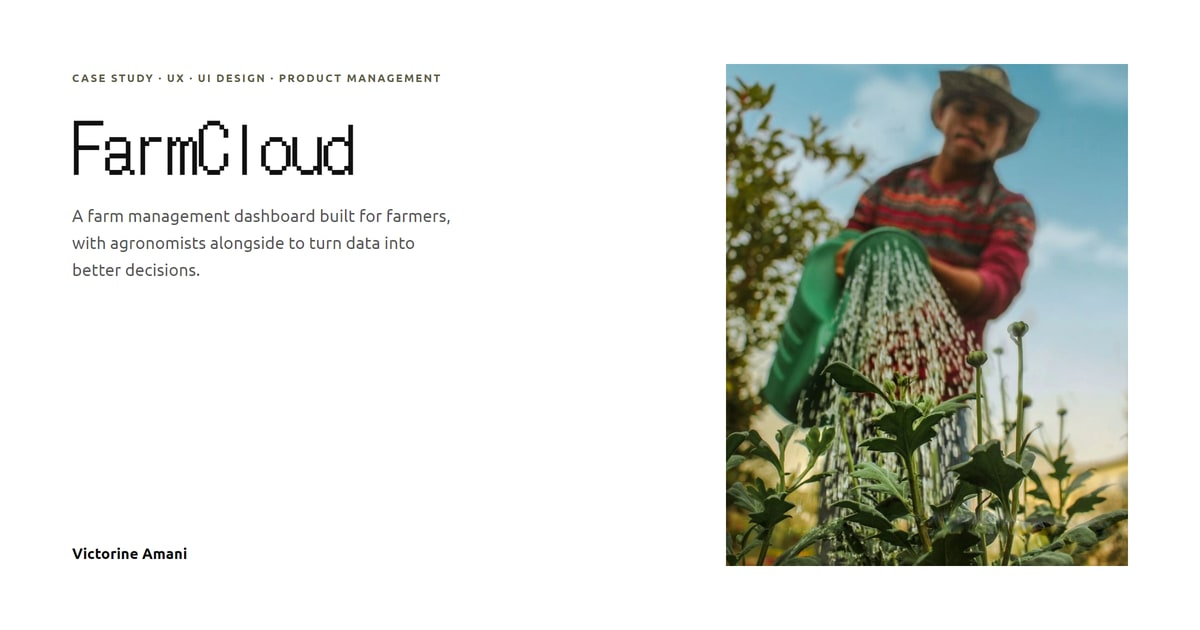
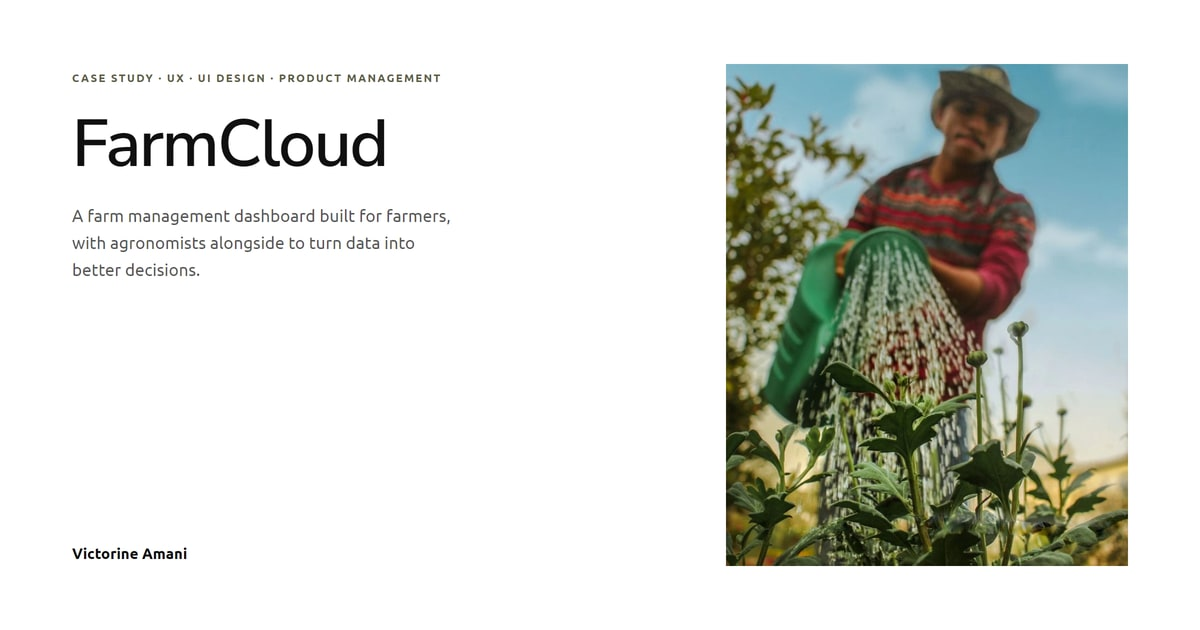
Set the headings in Nunito Sans
The pixel face read as a costume at seventy-two pixels. The headings are
the one place on a page that has to be read at a glance rather than looked
at, so they move to a face that can simply be read. Text stays Ubuntu.

Nunito Sans has real weights, so the three heading steps take the 600 that
names things everywhere else rather than a face's only option — and the
letter swap drops back to 400 with the face it swaps in, which ships one
weight and would otherwise be smeared with a fake bold. The measuring pass
drops the weight too, or a letter would be pinned narrower than the line
it sits in and the heading would reflow under the pointer.

Only 600 is fetched. The seven share cards are redrawn in the new face.

Changed region(s): [[0.0617, 0.181, 0.3392, 0.3016]]

diff --git a/src/styles.css b/src/styles.css
@@ -46,8 +46,9 @@
      media on the homepage. #e6e6cc. */
   --ground: oklch(0.918 0.034 107.1);
 
-  /* Headings only. DotGothic16 ships one weight, so the heading steps set 400. */
-  --font-display: "DotGothic16", var(--font-sans);
+  /* Headings only. Nunito Sans has real weights, so the heading steps set the
+     600 that names things everywhere else rather than a face's only option. */
+  --font-display: "Nunito Sans", var(--font-sans);
 
   /* Hairline used by the work-history file tabs and their panels. */
   --file-line: color-mix(in oklab, var(--ink) 24%, transparent);
@@ -76,8 +77,12 @@
 }
 
 /*
- * Text is set in Ubuntu, headings in DotGothic16 — both from Google Fonts, so
+ * Text is set in Ubuntu, headings in Nunito Sans — both from Google Fonts, so
  * nothing here needs a licence.
+ *
+ * DotGothic16 set the headings before this. It is a pixel face, and a heading
+ * is the one place on a page that has to be read at a glance rather than
+ * looked at, so the headings moved to a face that is simply legible.
  *
  * Aeonik was the earlier intent for text and was never bought; it is out of the
  * stack entirely now. Putting it back means adding it ahead of Ubuntu here and
@@ -89,7 +94,7 @@
  * thirteen sizes and six near-identical label styles before this.
  *
  * The three heading steps also carry the family and weight: headings are set
- * in DotGothic16, which ships a single 400 weight, so there is nothing to choose.
+ * in Nunito Sans at 600, the same weight the text steps use to name things.
  * The four text steps fix size, line height and tracking only, and their
  * weight stays an explicit font-* class at the call site: 400 for running
  * text, 600 for anything that names something, which Ubuntu renders as Bold.
@@ -106,7 +111,7 @@
 /* Page and section titles. */
 @utility type-display {
   font-family: var(--font-display);
-  font-weight: 400;
+  font-weight: 600;
   font-size: clamp(2.125rem, 3.4vw + 1.6rem, 4.5rem);
   line-height: 1.05;
   letter-spacing: -0.03em;
@@ -115,7 +120,7 @@
 /* One rank down: the footer address block. */
 @utility type-headline {
   font-family: var(--font-display);
-  font-weight: 400;
+  font-weight: 600;
   font-size: clamp(1.75rem, 2.6vw + 0.9rem, 2.75rem);
   line-height: 1.1;
   letter-spacing: -0.02em;
@@ -124,7 +129,7 @@
 /* Named things inside a section: employers, capability groups. */
 @utility type-title {
   font-family: var(--font-display);
-  font-weight: 400;
+  font-weight: 600;
   font-size: clamp(1.25rem, 0.8vw + 0.9rem, 1.625rem);
   line-height: 1.25;
   letter-spacing: -0.02em;
@@ -241,14 +246,20 @@ html {
   vertical-align: top;
 }
 
-/* Applied by LetterSwapHeading to every letter the cursor disc overlaps. */
+/* Applied by LetterSwapHeading to every letter the cursor disc overlaps.
+   The swap face ships one weight, so the heading's 600 is dropped with it —
+   left on, the browser would smear a fake bold over a drawn face. */
 .letter-swap > span.is-swapped {
   font-family: "Caacupe One", var(--font-display), cursive;
+  font-weight: 400;
 }
 
-/* Set while widths are being measured, so the swap cannot skew the result. */
+/* Set while widths are being measured, so the swap cannot skew the result.
+   The weight goes back too: a letter measured lighter than the line it sits
+   in would be pinned too narrow, and the line would reflow on hover. */
 .letter-swap.is-measuring > span.is-swapped {
   font-family: inherit;
+  font-weight: inherit;
 }
 
 /*

diff --git a/src/routes/__root.tsx b/src/routes/__root.tsx
@@ -98,7 +98,7 @@ export const Route = createRootRouteWithContext<{ queryClient: QueryClient }>()(
       { rel: "preconnect", href: "https://fonts.gstatic.com", crossOrigin: "anonymous" },
       {
         rel: "stylesheet",
-        href: "https://fonts.googleapis.com/css2?family=DotGothic16&family=Ubuntu:wght@400;500;700&family=Caacupe+One&display=swap",
+        href: "https://fonts.googleapis.com/css2?family=Nunito+Sans:wght@600&family=Ubuntu:wght@400;500;700&family=Caacupe+One&display=swap",
       },
       { rel: "icon", href: "/favicon.ico", type: "image/x-icon" },
     ],
